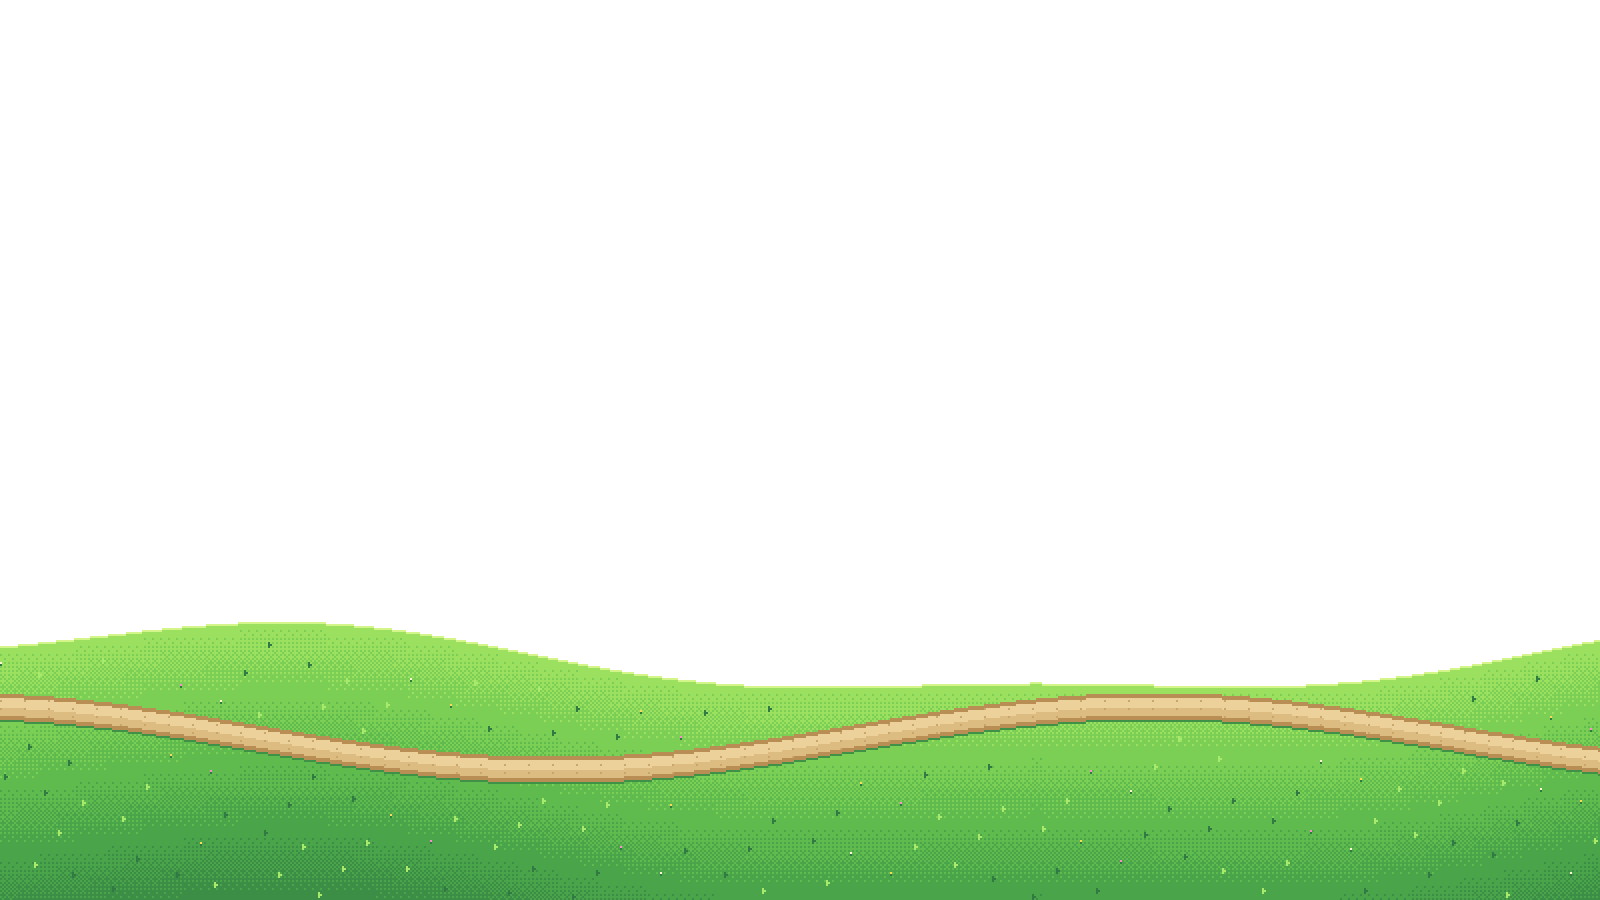
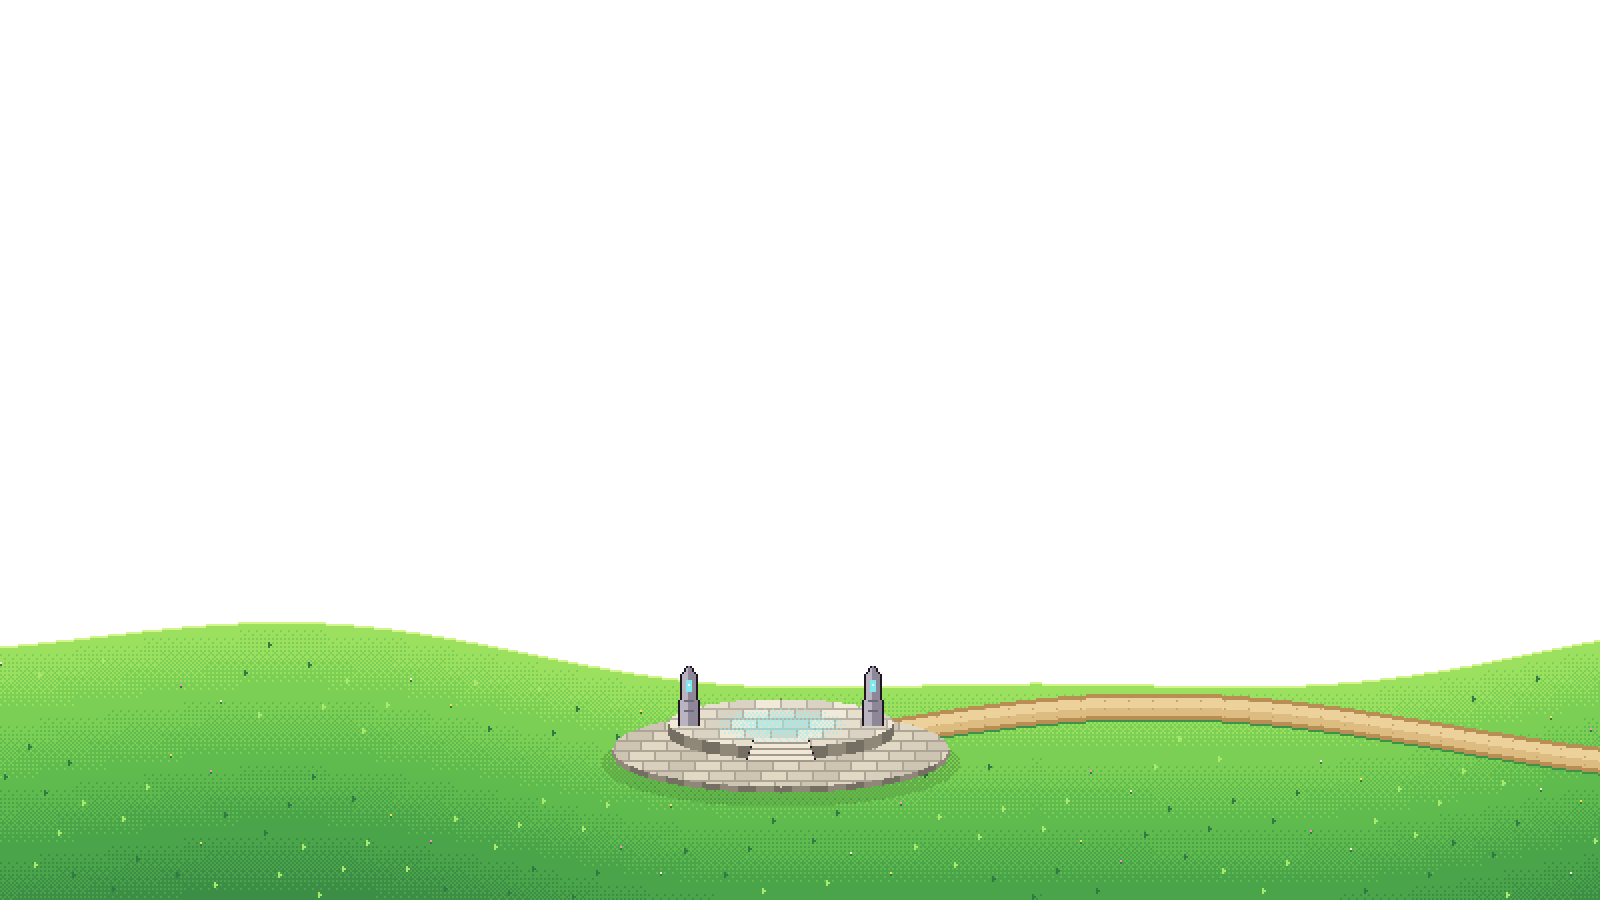
E1: stand the flag on the spire and give the Portal a stone site

Changed region(s): [[0.0, 0.7467, 0.5938, 0.9022]]

diff --git a/tools/art_kit.py b/tools/art_kit.py
@@ -567,16 +567,108 @@ def menu_town_hill():
                                             (hx - 42, 8, 12, 7, False), (hx + 44, 8, 12, 7, True)):
         roof = (red, red_dark) if is_red else (orange, orange_dark)
         house(draw, cx, int(line(cx)) + sink, width, height, *roof)
-    for x, sink, radius in ((MENU_X + 300, 12, 7), (MENU_X + 322, 20, 9), (MENU_X + 345, 14, 6),
+    for x, sink, radius in ((MENU_X + 225, 12, 7), (MENU_X + 247, 20, 9), (MENU_X + 270, 14, 6),
                             (MENU_X + 180, 16, 8), (MENU_X + 205, 24, 6)):
         tree(image, x, int(line(x)) + sink, radius, hexc("#8ccf6f"), hexc("#5cab62"), hexc("#3f8c5c"))
     return image
+
+
+PORTAL_X = 390
+ROAD_END_X = 440
+DAIS_RISE = 14
 
 
 def menu_road_y(x):
     """Where the road on the near hill runs, in art pixels. MenuScenery.gd walks a
     character along this same curve."""
     return MENU_Y + 322 + 16 * math.sin((x - MENU_X) * 0.0105 - 0.5)
+
+
+def ellipse_tier(image, cx, cy, rx, ry, depth, top, side):
+    """A round stone step: its side, then its paved top, then an ink edge."""
+    px = image.load()
+    for y in range(cy - ry - 1, cy + ry + depth + 2):
+        for x in range(cx - rx - 1, cx + rx + 2):
+            on_top = ((x - cx) / rx) ** 2 + ((y - cy) / ry) ** 2 <= 1.0
+            below = ((x - cx) / rx) ** 2 + ((y - cy - depth) / ry) ** 2 <= 1.0
+            wall = abs(x - cx) <= rx and cy <= y <= cy + depth
+            if on_top:
+                row = (y - cy + ry) // 5
+                seam = (y - cy + ry) % 5 == 0 or (x + row * 6) % 13 == 0
+                tile = ((x + row * 6) // 13 * 7 + row * 3) % 3
+                px[x, y] = shade(top, 0.8) if seam else shade(top, (1.0, 0.95, 1.05)[tile])
+            elif below or wall:
+                px[x, y] = shade(side, 0.82) if (x // 9) % 2 else side
+    source = image.copy().load()
+    for y in range(cy - ry - 1, cy + ry + depth + 2):
+        for x in range(cx - rx - 1, cx + rx + 2):
+            inside = ((x - cx) / rx) ** 2 + ((y - cy) / ry) ** 2 <= 1.0 or \
+                ((x - cx) / rx) ** 2 + ((y - cy - depth) / ry) ** 2 <= 1.0 or \
+                abs(x - cx) <= rx and cy <= y <= cy + depth
+            if inside and (((x - cx - 1) / rx) ** 2 + ((y - cy) / ry) ** 2 > 1.0 and
+                           ((x - cx + 1) / rx) ** 2 + ((y - cy) / ry) ** 2 > 1.0 and y < cy):
+                px[x, y] = shade(source[x, y], 0.7)
+
+
+def standing_stone(image, x, base):
+    """A carved stone with a glowing crystal, one on each side of the Portal."""
+    draw = ImageDraw.Draw(image)
+    draw.polygon([(x - 4, base), (x - 3, base - 25), (x, base - 29), (x + 3, base - 25), (x + 4, base)],
+                 fill=hexc("#b9b4c0"))
+    draw.polygon([(x, base - 29), (x + 3, base - 25), (x + 4, base), (x, base)], fill=hexc("#8d8798"))
+    draw.rectangle((x - 1, base - 22, x + 1, base - 17), fill=hexc("#7fe9f2"))
+    draw.point((x, base - 20), fill=hexc("#ffffff"))
+    for y in (base - 12, base - 7):
+        draw.line((x - 2, y, x + 2, y), fill=hexc("#6d6778"))
+    px = image.load()
+    source = image.copy().load()
+    for yy in range(base - 31, base + 1):
+        for xx in range(x - 6, x + 7):
+            if source[xx, yy][:3] not in ((185, 180, 192), (141, 135, 152), (127, 233, 242),
+                                          (255, 255, 255), (109, 103, 120)):
+                for ox, oy in ((1, 0), (-1, 0), (0, -1)):
+                    if source[xx + ox, yy + oy][:3] in ((185, 180, 192), (141, 135, 152)):
+                        px[xx, yy] = INK
+                        break
+
+
+def portal_site(image):
+    """The paved clearing where the road ends: two round steps, and stairs up the
+    middle to the Portal, which MenuScenery.gd stands on the top step."""
+    cy = int(menu_road_y(PORTAL_X))
+    pave, wall = hexc("#d8cfbc"), hexc("#8f8778")
+    px = image.load()
+    # A soft shadow on the grass.
+    for y in range(cy - 10, cy + 30):
+        for x in range(PORTAL_X - 92, PORTAL_X + 93):
+            d = ((x - PORTAL_X) / 90) ** 2 + ((y - cy - 8) / 22) ** 2
+            if d <= 1.0 and (x + y) % 2 == 0:
+                px[x, y] = shade(px[x, y], 0.82)
+    ellipse_tier(image, PORTAL_X, cy + 1, 84, 19, 3, pave, wall)
+    # The road joins the paving instead of stopping at it.
+    for x in range(PORTAL_X + 70, ROAD_END_X + 16):
+        middle = int(menu_road_y(x))
+        for y in range(middle - 3, middle + 8):
+            px[x, y] = hexc("#ecd19a") if y < middle + 3 else hexc("#dcbc80")
+    ellipse_tier(image, PORTAL_X, cy - DAIS_RISE + 2, 56, 12, 6, hexc("#e6dfce"), wall)
+    # The stairs, wider toward the bottom.
+    draw = ImageDraw.Draw(image)
+    top = cy - DAIS_RISE + 10
+    for step in range(4):
+        half = 13 + step
+        y = top + step * 3
+        draw.rectangle((PORTAL_X - half, y, PORTAL_X + half, y + 1), fill=hexc("#efe8d8"))
+        draw.rectangle((PORTAL_X - half, y + 2, PORTAL_X + half, y + 2), fill=hexc("#a39a89"))
+        px[PORTAL_X - half - 1, y + 1] = INK
+        px[PORTAL_X + half + 1, y + 1] = INK
+    # Light from the Portal spills over the top step.
+    for y in range(cy - DAIS_RISE - 7, cy - DAIS_RISE + 12):
+        for x in range(PORTAL_X - 34, PORTAL_X + 35):
+            d = ((x - PORTAL_X) / 34) ** 2 + ((y - cy + DAIS_RISE - 3) / 9) ** 2
+            if d <= 1.0 and BAYER[y % 4][x % 4] < (1.0 - d) * 14:
+                px[x, y] = lerp_color(px[x, y], hexc("#8ff2f5"), 0.5)
+    standing_stone(image, PORTAL_X - 46, cy - DAIS_RISE + 3)
+    standing_stone(image, PORTAL_X + 46, cy - DAIS_RISE + 3)
 
 
 def menu_near_hill():
@@ -588,7 +680,7 @@ def menu_near_hill():
     ramp = [hexc(c) for c in ("#9be05f", "#7ccf55", "#5fbb4e", "#4aa449", "#3c8d46", "#317a44")]
     fill_below(image, line, ramp, 170, hexc("#d4f58a"))
     px = image.load()
-    for x in range(MENU_W):
+    for x in range(ROAD_END_X, MENU_W):
         middle = int(menu_road_y(x))
         for y in range(middle - 4, middle + 9):
             edge = y <= middle - 3 or y >= middle + 7
@@ -611,6 +703,7 @@ def menu_near_hill():
             color = hexc("#a8ea6b") if i % 2 else hexc("#317a44")
             draw.line((x, y, x, y + 2), fill=color)
             draw.point((x + 1, y + 1), fill=color)
+    portal_site(image)
     return image
 
 
@@ -618,8 +711,8 @@ def menu_front():
     """Bushes that frame the bottom of the picture, in front of everything."""
     image = Image.new("RGBA", (MENU_W, MENU_H), (0, 0, 0, 0))
     light, middle, dark = hexc("#4fae55"), hexc("#2f8a4d"), hexc("#206a48")
-    for x, radius in ((750, 62), (690, 40), (640, 26), (380, 20), (330, 28), (120, 32), (70, 44),
-                      (200, 22), (520, 18), (810, 50)):
+    for x, radius in ((750, 62), (690, 40), (640, 26), (250, 24), (120, 32), (70, 44), (190, 20),
+                      (560, 16), (810, 50)):
         tree(image, x, MENU_Y + 372 + radius // 3, radius, light, middle, dark, False)
     return image
 
@@ -669,9 +762,9 @@ def menu_portal():
                         color = hexc("#a6f4f0") if math.sin(block * 0.8 - phase) > 0 else hexc("#4cc6f0")
                     px[sx, y] = color
         left = frame * w
-        draw.rectangle((left + 6, 63, left + 49, 66), fill=stone)
-        draw.rectangle((left + 3, 67, left + 52, 70), fill=stone_dark)
-        draw.line((left + 6, 63, left + 49, 63), fill=stone_light)
+        draw.rectangle((left + 13, 62, left + 42, 66), fill=stone)
+        draw.rectangle((left + 10, 67, left + 45, 70), fill=stone_dark)
+        draw.line((left + 13, 62, left + 42, 62), fill=stone_light)
     return outline_outside(sheet)
 
 
